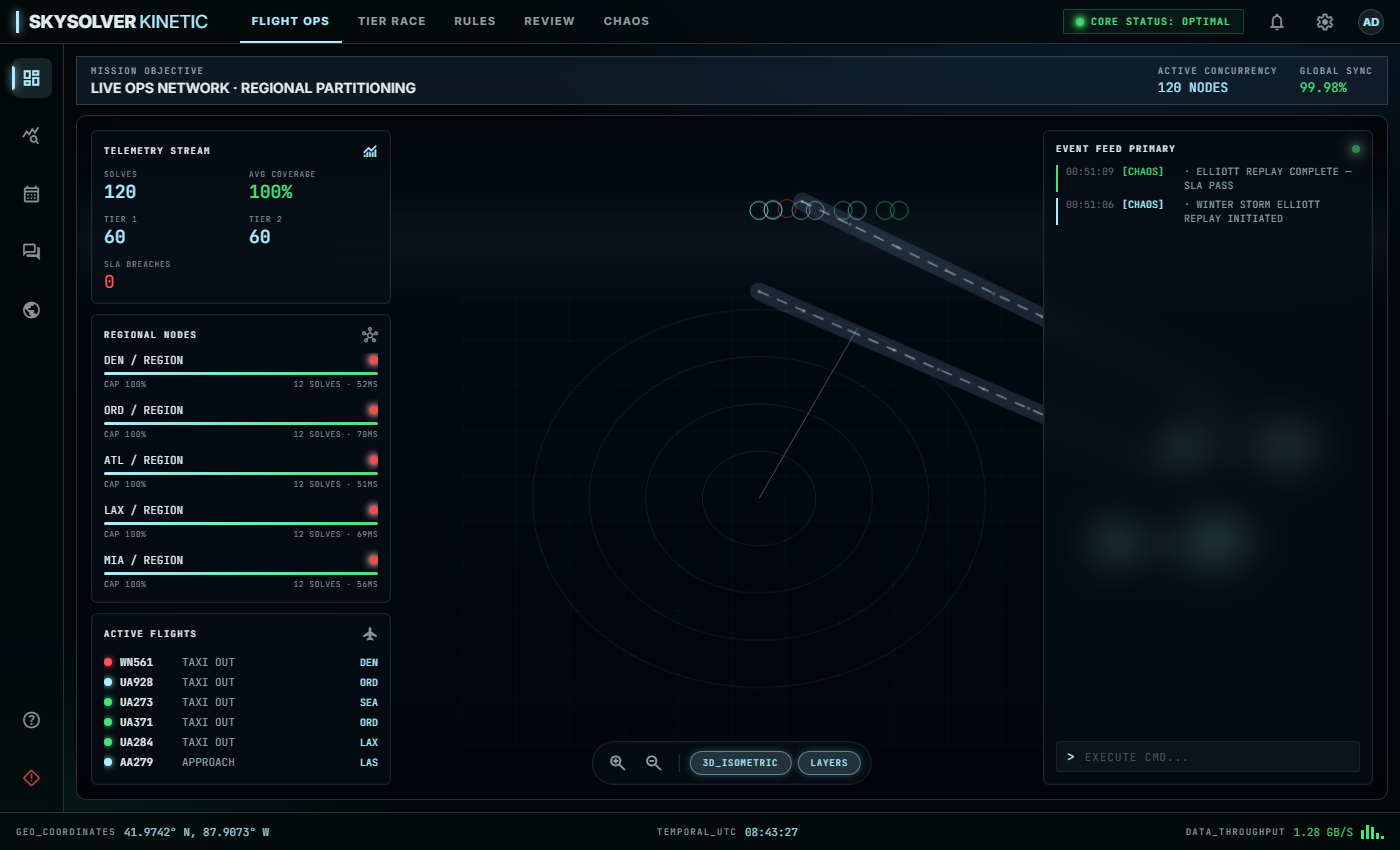
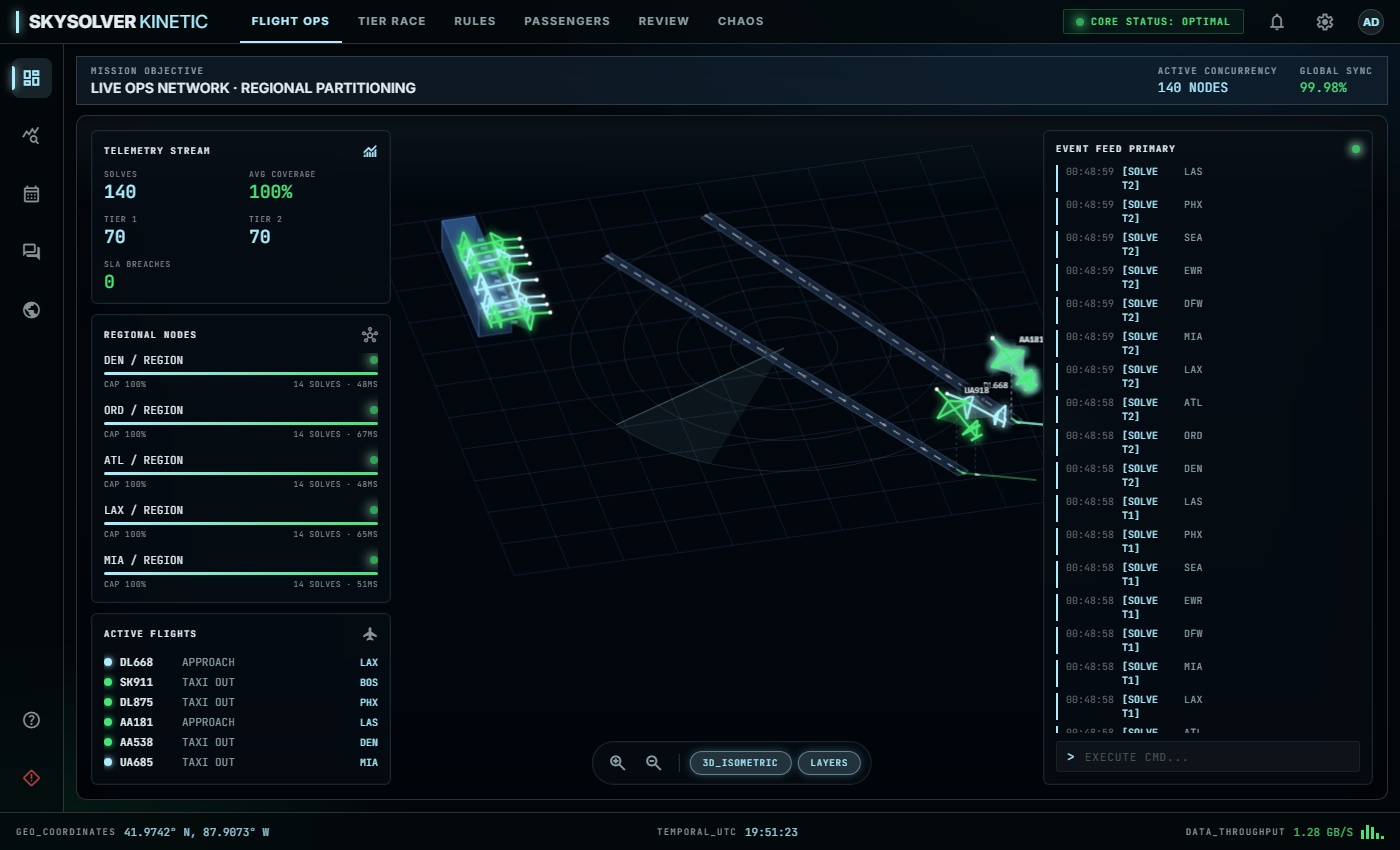
Cursor: Apply local changes for cloud agent

diff --git a/deployment/dashboard.html b/deployment/dashboard.html
@@ -349,7 +349,7 @@ footer.bottombar .seg .v{font-family:"JetBrains Mono",monospace;font-size:11px;c
               <div class="kpi"><div class="l">Avg Coverage</div><div class="v s" id="kCov">0%</div></div>
               <div class="kpi"><div class="l">Tier 1</div><div class="v" id="kT1">0</div></div>
               <div class="kpi"><div class="l">Tier 2</div><div class="v" id="kT2">0</div></div>
-              <div class="kpi"><div class="l">SLA Breaches</div><div class="v e" id="kBreach">0</div></div>
+              <div class="kpi"><div class="l">SLA Breaches</div><div class="v" id="kBreach">0</div></div>
             </div>
           </div>
           <div class="panel glass-soft" style="flex:1">
@@ -691,9 +691,11 @@ function spawnPlane(tier,opts){
   const r=Math.random()<0.5?runwayA():runwayB(); const g=(seq)%N_GATES;
   const isOut=opts.kind?opts.kind==="out":Math.random()<0.55;
   const path=isOut?outboundPath(g,r):inboundPath(g,r); seq++;
+  // small lateral jitter so isometric gate cluster doesn't fully stack
+  const jx=(Math.random()-0.5)*0.012, jz=(Math.random()-0.5)*0.008;
   planes.push({id:makeFlightId(tier),tier,partition:opts.partition||pick(HUBS),path,seg:0,t:0,
-    x:path.nodes[0][0],y:path.nodes[0][1],angle:0,trail:[],done:false,phase:isOut?"TAXI OUT":"APPROACH",spawn:performance.now(),
-    alt:0,pitch:0});
+    x:path.nodes[0][0]+jx,y:path.nodes[0][1]+jz,angle:0,trail:[],done:false,phase:isOut?"TAXI OUT":"APPROACH",spawn:performance.now(),
+    alt:0,pitch:0,jx,jz});
 }
 function lerp(a,b,t){return a+(b-a)*t;}
 function hash(s){let h=0;for(let i=0;i<s.length;i++){h=(h*31+s.charCodeAt(i))|0;}return Math.abs(h);}
@@ -712,7 +714,7 @@ function updatePlane(p,dt){
   // 3D state: progress along full path drives climb / descent profile
   const n=nodes.length-1; const prog=(p.seg+p.t)/n;          // 0..1 along whole route
   const isOut=p.path.kind==="out";
-  const CRZ=0.22;                                            // cruise altitude (world units)
+  const CRZ=0.18;                                            // cruise altitude (world units)
   if(isOut) p.alt = prog<0.6 ? 0 : Math.min(CRZ,(prog-0.6)/0.4*CRZ);
   else      p.alt = prog>0.4 ? 0 : Math.min(CRZ,(0.4-prog)/0.4*CRZ);
   p.pitch = isOut ? (p.alt>0.005?-0.32:0) : (p.alt>0.005?0.32:0);  // nose up on climb, down on approach
@@ -744,93 +746,196 @@ function drawTerminal(time){ctx.save();const tx=GATE_X0*W-6,tw=(N_GATES*GATE_DX)
 function roundRect(x,y,w,h,r){ctx.beginPath();ctx.moveTo(x+r,y);ctx.arcTo(x+w,y,x+w,y+h,r);ctx.arcTo(x+w,y+h,x,y+h,r);ctx.arcTo(x,y+h,x,y,r);ctx.arcTo(x,y,x+w,y,r);ctx.closePath();}
 
 /* ============================================================
-   3D ISOMETRIC SCENE — real projected aircraft models
-   World space: x = east, z = north (ground plane y=0), y = up.
-   Camera looks down at PITCH; project() maps (x,y,z) -> screen px.
+   3D ISOMETRIC SCENE — classic 2:1 isometric projection
+   World: x = east, y = up, z = north (map y → world z).
+   screenX = (x − z) · cos30 · scale
+   screenY = (x + z) · sin30 · scale − y · scale
    ============================================================ */
-const CAM={pitch:0.99, tilt:-1, scale:540};
-function project(wx,wy,wz){
-  const c=Math.cos(CAM.pitch),s=Math.sin(CAM.pitch);
-  const ry=wy*c + wz*s*CAM.tilt;
-  const rz=-wy*s + wz*c;
-  const persp=1.0/(1+wy*0.35);
-  return [W*0.5+wx*CAM.scale*zoom, H*0.56+ry*CAM.scale*zoom*persp];
+const ISO_COS = Math.sqrt(3) / 2; // cos(30°) ≈ 0.866
+const ISO_SIN = 0.5;              // sin(30°)
+const CAM = { scale: 460, ox: 0.50, oz: 0.52, yaw: 0.55 }; // yaw ~31° for classic diamond framing
+function project(wx, wy, wz){
+  // center, then yaw so runways read as isometric diagonals (not flat horizontals)
+  let x = wx - CAM.ox, z = wz - CAM.oz;
+  const cy=Math.cos(CAM.yaw), syaw=Math.sin(CAM.yaw);
+  const rx = x*cy - z*syaw, rz = x*syaw + z*cy;
+  const sx = (rx - rz) * ISO_COS;
+  const sy = (rx + rz) * ISO_SIN - wy * 1.35;
+  return [W * 0.50 + sx * CAM.scale * zoom, H * 0.36 + sy * CAM.scale * zoom];
 }
-function drawGrid3D(){ctx.save();ctx.strokeStyle="rgba(60,120,200,0.08)";ctx.lineWidth=1;
-  for(let x=-0.5;x<=0.6;x+=0.1){const a=project(x,0,-0.55),b=project(x,0,0.45);
-    ctx.beginPath();ctx.moveTo(a[0],a[1]);ctx.lineTo(b[0],b[1]);ctx.stroke();}
-  for(let z=-0.55;z<=0.45;z+=0.1){const a=project(-0.5,0,z),b=project(0.6,0,z);
-    ctx.beginPath();ctx.moveTo(a[0],a[1]);ctx.lineTo(b[0],b[1]);ctx.stroke();}ctx.restore();}
-function drawRadar3D(time){const cx=0.05,cy=0.0;ctx.save();
-  ctx.strokeStyle="rgba(172,237,255,0.10)";ctx.lineWidth=1;
-  for(let i=1;i<=4;i++){const R=0.42*i/4;ctx.beginPath();
-    for(let a=0;a<=64;a++){const t=a/64*Math.PI*2;const p=project(cx+Math.cos(t)*R,0,cy+Math.sin(t)*R);a?ctx.lineTo(p[0],p[1]):ctx.moveTo(p[0],p[1]);}ctx.closePath();ctx.stroke();}
-  const ang=(time*0.0006)%(Math.PI*2),R=0.42;
-  ctx.strokeStyle="rgba(172,237,255,0.35)";const c=project(cx,0,cy),e=project(cx+Math.cos(ang)*R,0,cy+Math.sin(ang)*R);
-  ctx.beginPath();ctx.moveTo(c[0],c[1]);ctx.lineTo(e[0],e[1]);ctx.stroke();ctx.restore();}
-function drawRunway3D(rwy,time){const [sx,sy]=rwy.s,[ex,ey]=rwy.e;const x1=sx,y1=sy,x2=ex,y2=ey;ctx.save();
-  const a=project(x1,0,y1),b=project(x2,0,y2);
-  ctx.strokeStyle="rgba(120,150,190,0.20)";ctx.lineWidth=Math.max(10,18*zoom);ctx.lineCap="round";
-  ctx.beginPath();ctx.moveTo(a[0],a[1]);ctx.lineTo(b[0],b[1]);ctx.stroke();
-  ctx.strokeStyle="rgba(220,235,255,0.5)";ctx.lineWidth=1.5;ctx.setLineDash([10,10]);
-  ctx.beginPath();ctx.moveTo(a[0],a[1]);ctx.lineTo(b[0],b[1]);ctx.stroke();ctx.setLineDash([]);
-  const n=9,blink=(Math.sin(time*0.004)>0);for(let i=0;i<=n;i++){const t=i/n;const p=project(lerp(x1,x2,t),0,lerp(y1,y2,t));
-    ctx.fillStyle=blink?"rgba(255,240,180,0.9)":"rgba(255,240,180,0.25)";ctx.beginPath();ctx.arc(p[0],p[1],1.8,0,Math.PI*2);ctx.fill();}ctx.restore();}
-function drawTerminal3D(time){ctx.save();
-  const xs=project(GATE_X0-0.01,0,GATE_Y),xe=project(GATE_X0+(N_GATES-1)*GATE_DX+0.01,0,GATE_Y);
-  const ys=project(GATE_X0-0.01,0,GATE_Y+0.05),ye=project(GATE_X0+(N_GATES-1)*GATE_DX+0.01,0,GATE_Y+0.05);
-  ctx.fillStyle="rgba(20,34,60,0.85)";ctx.strokeStyle="rgba(80,140,220,0.3)";ctx.beginPath();
-  ctx.moveTo(xs[0],xs[1]);ctx.lineTo(xe[0],xe[1]);ctx.lineTo(ye[0],ye[1]);ctx.lineTo(ys[0],ys[1]);ctx.closePath();ctx.fill();ctx.stroke();
-  for(let i=0;i<N_GATES;i++){const p=project(gateX(i),0,GATE_Y-0.005);ctx.fillStyle="rgba(172,237,255,0.3)";ctx.fillRect(p[0]-4,p[1]-2,8,4);}ctx.restore();}
+function depthKey(wx, wy, wz){ return (wx - CAM.ox) + (wz - CAM.oz) - wy * 2; }
+function drawGrid3D(){
+  ctx.save(); ctx.strokeStyle="rgba(80,150,220,0.16)"; ctx.lineWidth=1;
+  const x0=-0.05, x1=1.05, z0=-0.05, z1=1.05, step=0.1;
+  for(let x=x0; x<=x1+1e-9; x+=step){
+    const a=project(x,0,z0), b=project(x,0,z1);
+    ctx.beginPath(); ctx.moveTo(a[0],a[1]); ctx.lineTo(b[0],b[1]); ctx.stroke();
+  }
+  for(let z=z0; z<=z1+1e-9; z+=step){
+    const a=project(x0,0,z), b=project(x1,0,z);
+    ctx.beginPath(); ctx.moveTo(a[0],a[1]); ctx.lineTo(b[0],b[1]); ctx.stroke();
+  }
+  ctx.restore();
+}
+function drawRadar3D(time){
+  const cx=0.48, cz=0.42; ctx.save();
+  ctx.strokeStyle="rgba(172,237,255,0.12)"; ctx.lineWidth=1;
+  for(let i=1;i<=4;i++){
+    const R=0.38*i/4; ctx.beginPath();
+    for(let a=0;a<=64;a++){
+      const t=a/64*Math.PI*2;
+      const p=project(cx+Math.cos(t)*R, 0, cz+Math.sin(t)*R);
+      a?ctx.lineTo(p[0],p[1]):ctx.moveTo(p[0],p[1]);
+    }
+    ctx.closePath(); ctx.stroke();
+  }
+  const ang=(time*0.0006)%(Math.PI*2), R=0.38;
+  ctx.strokeStyle="rgba(172,237,255,0.40)";
+  const c=project(cx,0,cz), e=project(cx+Math.cos(ang)*R,0,cz+Math.sin(ang)*R);
+  ctx.beginPath(); ctx.moveTo(c[0],c[1]); ctx.lineTo(e[0],e[1]); ctx.stroke();
+  // sweep wedge (projected polygon)
+  ctx.fillStyle="rgba(172,237,255,0.06)";
+  ctx.beginPath(); ctx.moveTo(c[0],c[1]);
+  for(let k=0;k<=12;k++){
+    const t=ang - (k/12)*0.55;
+    const p=project(cx+Math.cos(t)*R,0,cz+Math.sin(t)*R);
+    ctx.lineTo(p[0],p[1]);
+  }
+  ctx.closePath(); ctx.fill();
+  ctx.restore();
+}
+function drawRunway3D(rwy,time){
+  const [sx,sz]=rwy.s, [ex,ez]=rwy.e; ctx.save();
+  // runway as a flat ribbon with slight width in isometric
+  const dx=ex-sx, dz=ez-sz, len=Math.hypot(dx,dz)||1;
+  const nx=(-dz/len)*0.012, nz=(dx/len)*0.012;
+  const corners=[
+    project(sx-nx,0,sz-nz), project(sx+nx,0,sz+nz),
+    project(ex+nx,0,ez+nz), project(ex-nx,0,ez-nz)
+  ];
+  ctx.fillStyle="rgba(40,60,90,0.55)"; ctx.strokeStyle="rgba(120,150,190,0.35)"; ctx.lineWidth=1;
+  ctx.beginPath();
+  ctx.moveTo(corners[0][0],corners[0][1]);
+  for(let i=1;i<4;i++) ctx.lineTo(corners[i][0],corners[i][1]);
+  ctx.closePath(); ctx.fill(); ctx.stroke();
+  // centerline
+  const a=project(sx,0,sz), b=project(ex,0,ez);
+  ctx.strokeStyle="rgba(220,235,255,0.55)"; ctx.lineWidth=1.4; ctx.setLineDash([8,8]);
+  ctx.beginPath(); ctx.moveTo(a[0],a[1]); ctx.lineTo(b[0],b[1]); ctx.stroke(); ctx.setLineDash([]);
+  const n=9, blink=(Math.sin(time*0.004)>0);
+  for(let i=0;i<=n;i++){
+    const t=i/n; const p=project(lerp(sx,ex,t),0,lerp(sz,ez,t));
+    ctx.fillStyle=blink?"rgba(255,240,180,0.95)":"rgba(255,240,180,0.25)";
+    ctx.beginPath(); ctx.arc(p[0],p[1],1.8,0,Math.PI*2); ctx.fill();
+  }
+  ctx.restore();
+}
+function drawBox3D(x0,z0,x1,z1,h,fill,stroke){
+  // isometric extruded box: ground quad + walls + roof
+  const g=[project(x0,0,z0),project(x1,0,z0),project(x1,0,z1),project(x0,0,z1)];
+  const t=[project(x0,h,z0),project(x1,h,z0),project(x1,h,z1),project(x0,h,z1)];
+  ctx.fillStyle=fill; ctx.strokeStyle=stroke; ctx.lineWidth=1;
+  // left wall
+  ctx.beginPath(); ctx.moveTo(g[0][0],g[0][1]); ctx.lineTo(g[3][0],g[3][1]);
+  ctx.lineTo(t[3][0],t[3][1]); ctx.lineTo(t[0][0],t[0][1]); ctx.closePath(); ctx.fill(); ctx.stroke();
+  // right wall
+  ctx.beginPath(); ctx.moveTo(g[1][0],g[1][1]); ctx.lineTo(g[2][0],g[2][1]);
+  ctx.lineTo(t[2][0],t[2][1]); ctx.lineTo(t[1][0],t[1][1]); ctx.closePath(); ctx.fill(); ctx.stroke();
+  // front wall
+  ctx.beginPath(); ctx.moveTo(g[3][0],g[3][1]); ctx.lineTo(g[2][0],g[2][1]);
+  ctx.lineTo(t[2][0],t[2][1]); ctx.lineTo(t[3][0],t[3][1]); ctx.closePath();
+  ctx.fillStyle="rgba(30,50,80,0.9)"; ctx.fill(); ctx.stroke();
+  // roof
+  ctx.fillStyle="rgba(50,90,140,0.75)";
+  ctx.beginPath(); ctx.moveTo(t[0][0],t[0][1]); ctx.lineTo(t[1][0],t[1][1]);
+  ctx.lineTo(t[2][0],t[2][1]); ctx.lineTo(t[3][0],t[3][1]); ctx.closePath(); ctx.fill(); ctx.stroke();
+}
+function drawTerminal3D(){
+  ctx.save();
+  const x0=GATE_X0-0.01, x1=GATE_X0+(N_GATES-1)*GATE_DX+0.01;
+  const z0=GATE_Y, z1=GATE_Y+0.06;
+  drawBox3D(x0,z0,x1,z1,0.045,"rgba(25,42,72,0.85)","rgba(80,140,220,0.4)");
+  for(let i=0;i<N_GATES;i++){
+    const gx=gateX(i);
+    const p=project(gx,0.01,GATE_Y-0.008);
+    ctx.fillStyle="rgba(172,237,255,0.45)";
+    ctx.fillRect(p[0]-3,p[1]-2,6,3);
+  }
+  ctx.restore();
+}
 /* Aircraft as a 3D wireframe (fuselage spine, swept wings, tail, fin). */
-const AC_V=[[0.13,0,0],[0.06,0,0],[-0.02,0,0],[-0.10,0,0],[-0.14,0,0],
-  [0.05,0,0.075],[0.05,0,-0.075],[-0.12,0,0.05],[-0.12,0,-0.05],
-  [-0.135,0,0.035],[-0.135,0,-0.035],[-0.14,0,0]];
-const AC_E=[[0,1],[1,2],[2,3],[3,4],[5,6],[5,0],[6,0],[7,8],[7,3],[8,3],[9,10],[9,3],[10,3],[11,9],[11,10]];
-const AC_SIDE=[5,6,7,8];   // shaded wing/tail edges
-function P3(p, vx, vy, vz) {
-  const cp = Math.cos(p.pitch), sp = Math.sin(p.pitch);
-  const px = vx * cp - vy * sp;
-  const py = vx * sp + vy * cp;
-  const pz = vz;
-  
-  const cy = Math.cos(p.angle), sy = Math.sin(p.angle);
-  const yx = px * cy - pz * sy;
-  const yz = px * sy + pz * cy;
-  
+const AC_V=[
+  [0.055,0.004,0],[0.025,0.006,0],[0,0.004,0],[-0.035,0.002,0],[-0.055,0,0],
+  [0.01,0,0.038],[0.01,0,-0.038],[-0.04,0.002,0.022],[-0.04,0.002,-0.022],
+  [-0.048,0.028,0],[-0.055,0,0.014],[-0.055,0,-0.014]
+];
+const AC_E=[[0,1],[1,2],[2,3],[3,4],[5,6],[5,1],[6,1],[7,8],[7,3],[8,3],[9,3],[9,4],[10,4],[11,4],[10,11]];
+const AC_WING=[1,5,3,6]; // fuselage mid → L wing → aft → R wing
+function P3(p, vx, vy, vz){
+  // pitch about lateral (z), then yaw about up (y) using path heading
+  const cp=Math.cos(p.pitch), sp=Math.sin(p.pitch);
+  const px=vx*cp - vy*sp;
+  const py=vx*sp + vy*cp;
+  const pz=vz;
+  const cy=Math.cos(p.angle), sy=Math.sin(p.angle);
+  const yx=px*cy - pz*sy;
+  const yz=px*sy + pz*cy;
   return project(p.x + yx, p.alt + py, p.y + yz);
 }
-function drawPlane3D(p,time){const col=TIER_COLORS[p.tier];
-  // ground shadow & vertical drop line
-  if(p.alt>0.004){ctx.save();ctx.fillStyle="rgba(0,0,0,0.45)";
-    const shadow=project(p.x,0,p.y);
-    ctx.beginPath();ctx.arc(shadow[0],shadow[1],4,0,Math.PI*2);ctx.fill();
-    ctx.strokeStyle="rgba(255,255,255,0.15)";ctx.lineWidth=1;
-    const planePos=project(p.x,p.alt,p.y);
-    ctx.beginPath();ctx.moveTo(shadow[0],shadow[1]);ctx.lineTo(planePos[0],planePos[1]);ctx.stroke();ctx.restore();}
-  // vapor trail on the ground
-  if(p.trail.length>1){ctx.save();ctx.lineWidth=2;ctx.lineCap="round";
-    for(let i=1;i<p.trail.length;i++){const t=i/p.trail.length;const a=project(p.trail[i-1][0],0,p.trail[i-1][1]),b=project(p.trail[i][0],0,p.trail[i][1]);
-      ctx.globalAlpha=t*0.4;ctx.strokeStyle=col;ctx.beginPath();ctx.moveTo(a[0],a[1]);ctx.lineTo(b[0],b[1]);ctx.stroke();}ctx.restore();}
+function drawPlane3D(p){
+  const col=TIER_COLORS[p.tier];
+  // ground shadow + altitude stem
+  if(p.alt>0.004){
+    ctx.save();
+    const shadow=project(p.x,0,p.y), tip=project(p.x,p.alt,p.y);
+    ctx.fillStyle="rgba(0,0,0,0.40)";
+    ctx.beginPath(); ctx.ellipse(shadow[0],shadow[1],7,3.5,0,0,Math.PI*2); ctx.fill();
+    ctx.strokeStyle="rgba(255,255,255,0.18)"; ctx.lineWidth=1; ctx.setLineDash([3,3]);
+    ctx.beginPath(); ctx.moveTo(shadow[0],shadow[1]); ctx.lineTo(tip[0],tip[1]); ctx.stroke();
+    ctx.setLineDash([]); ctx.restore();
+  }
+  // vapor trail — only while airborne so taxi cluster stays clean
+  if(p.alt>0.004 && p.trail.length>1){
+    ctx.save(); ctx.lineWidth=2; ctx.lineCap="round";
+    for(let i=1;i<p.trail.length;i++){
+      const t=i/p.trail.length;
+      const a=project(p.trail[i-1][0],0,p.trail[i-1][1]);
+      const b=project(p.trail[i][0],0,p.trail[i][1]);
+      ctx.globalAlpha=t*0.35; ctx.strokeStyle=col;
+      ctx.beginPath(); ctx.moveTo(a[0],a[1]); ctx.lineTo(b[0],b[1]); ctx.stroke();
+    }
+    ctx.restore();
+  }
   const V=AC_V.map(v=>P3(p,v[0],v[1],v[2]));
   ctx.save();
-  ctx.lineWidth=2.4;ctx.strokeStyle=col;ctx.shadowColor=col;ctx.shadowBlur=10;
-  for(const e of AC_E){const a=V[e[0]],b=V[e[1]];ctx.beginPath();ctx.moveTo(a[0],a[1]);ctx.lineTo(b[0],b[1]);ctx.stroke();}
-  for(const si of AC_SIDE){const v=V[si];ctx.fillStyle=col;ctx.globalAlpha=0.18;ctx.beginPath();ctx.arc(v[0],v[1],2.2,0,Math.PI*2);ctx.fill();ctx.globalAlpha=1;}
-  ctx.shadowBlur=0;ctx.fillStyle="#fff";const nose=V[0];ctx.beginPath();ctx.arc(nose[0],nose[1],1.6,0,Math.PI*2);ctx.fill();
+  // filled wing poly for solid silhouette
+  ctx.fillStyle=col; ctx.globalAlpha=0.22;
+  ctx.beginPath();
+  ctx.moveTo(V[AC_WING[0]][0],V[AC_WING[0]][1]);
+  for(let i=1;i<AC_WING.length;i++) ctx.lineTo(V[AC_WING[i]][0],V[AC_WING[i]][1]);
+  ctx.closePath(); ctx.fill(); ctx.globalAlpha=1;
+  ctx.lineWidth=2.2; ctx.strokeStyle=col; ctx.shadowColor=col; ctx.shadowBlur=8;
+  for(const e of AC_E){
+    const a=V[e[0]], b=V[e[1]];
+    ctx.beginPath(); ctx.moveTo(a[0],a[1]); ctx.lineTo(b[0],b[1]); ctx.stroke();
+  }
+  ctx.shadowBlur=0; ctx.fillStyle="#fff";
+  ctx.beginPath(); ctx.arc(V[0][0],V[0][1],2,0,Math.PI*2); ctx.fill();
   ctx.restore();
-  // label
-  const lc=project(p.x+0.04,p.alt,p.y);
-  ctx.save();ctx.fillStyle="rgba(225,237,240,0.9)";ctx.font="9px monospace";ctx.fillText(p.id,lc[0]+4,lc[1]-6);ctx.restore();
-  // HUD marker (only in 3D)
-  const hud=project(p.x,0.26,p.y);
-  ctx.save();ctx.strokeStyle=col;ctx.globalAlpha=0.5;ctx.lineWidth=1;
-  ctx.beginPath();ctx.arc(hud[0],hud[1],9,0,Math.PI*2);ctx.stroke();ctx.restore();
+  const lc=project(p.x, p.alt+0.02, p.y);
+  // declutter: only label airborne / rolling aircraft, skip dense taxi pile-ups
+  const showLabel = p.alt>0.004 || p.phase==="TAKEOFF ROLL" || p.phase==="LANDING" || p.phase==="ROLL-OUT" || p.phase==="APPROACH";
+  if(showLabel){
+    ctx.save(); ctx.font="9px monospace";
+    const label=p.id, tw=ctx.measureText(label).width;
+    ctx.fillStyle="rgba(2,6,12,0.65)"; ctx.fillRect(lc[0]+5, lc[1]-18, tw+6, 12);
+    ctx.fillStyle="rgba(225,237,240,0.95)"; ctx.fillText(label, lc[0]+8, lc[1]-9);
+    ctx.restore();
+  }
 }
-
 function drawGround3D(time){
   if(layersOn){drawGrid3D();drawRadar3D(time);}
-  drawRunway3D(runwayA(),time);drawRunway3D(runwayB(),time);drawTerminal3D(time);
+  drawRunway3D(runwayA(),time);drawRunway3D(runwayB(),time);drawTerminal3D();
 }
 function drawPlane(p){const col=TIER_COLORS[p.tier];
   if(p.trail.length>1){ctx.save();ctx.lineWidth=2;ctx.lineCap="round";
@@ -855,8 +960,8 @@ function frame(now){const dt=Math.min((now-lastT)/1000,0.05);lastT=now;
         drawGround3D(now);
         ambient+=dt; if(ambient>1.1&&planes.length<14){ambient=0;spawnPlane(pick([1,1,1,2,3]));}
         for(const p of planes)updatePlane(p,dt);
-        const sorted=planes.slice().sort((a,b)=>b.alt-a.alt);   // draw lowest first
-        for(const p of sorted)drawPlane3D(p,now);
+        const sorted=planes.slice().sort((a,b)=>depthKey(a.x,a.alt,a.y)-depthKey(b.x,b.alt,b.y));
+        for(const p of sorted)drawPlane3D(p);
       } else {
         ctx.translate(W/2,H/2); ctx.scale(zoom,zoom); ctx.translate(-W/2,-H/2);
         if(layersOn){drawGrid();drawRadar(now);}
@@ -882,7 +987,8 @@ function renderOps(m){
   setText("kT1",m.tier_usage?.tier1||0);
   setText("kT2",m.tier_usage?.tier2||0);
   setText("kT3",(m.tier_usage?.tier3)||0);
-  setText("kBreach",m.sla_breaches||0);
+  const breaches=m.sla_breaches||0; setText("kBreach",breaches);
+  const kb=document.getElementById("kBreach"); if(kb){kb.className="v"+(breaches>0?" e":" s");}
   const parts=m.partitions||{}; let cov=0,n=0;
   for(const k in parts){cov+=parts[k].avg_coverage;n++;}
   const covPct=n?(cov/n*100):0; setText("kCov",covPct.toFixed(0)+"%");
@@ -892,8 +998,8 @@ function renderOps(m){
   const keys=Object.keys(parts);
   if(!keys.length){nodes.innerHTML='<div class="empty">No partitions yet — run a solver or chaos replay.</div>';}
   else{
-    nodes.innerHTML=keys.map(k=>{const p=parts[k];const c=(p.avg_coverage*100).toFixed(0);const over=c>=95;
-      const dot=over?'<span class="dot e glow"></span>':'<span class="dot s glow"></span>';
+    nodes.innerHTML=keys.map(k=>{const p=parts[k];const c=(p.avg_coverage*100).toFixed(0);const healthy=c>=90;
+      const dot=healthy?'<span class="dot s glow"></span>':'<span class="dot e glow"></span>';
       return `<div class="node"><div class="top"><span class="nm">${k} / REGION</span>${dot}</div>
         <div class="bar"><span style="width:${c}%"></span></div>
         <div class="meta"><span>CAP ${c}%</span><span>${p.solves} SOLVES · ${(p.avg_time_s*1000).toFixed(0)}ms</span></div></div>`;}).join("");
